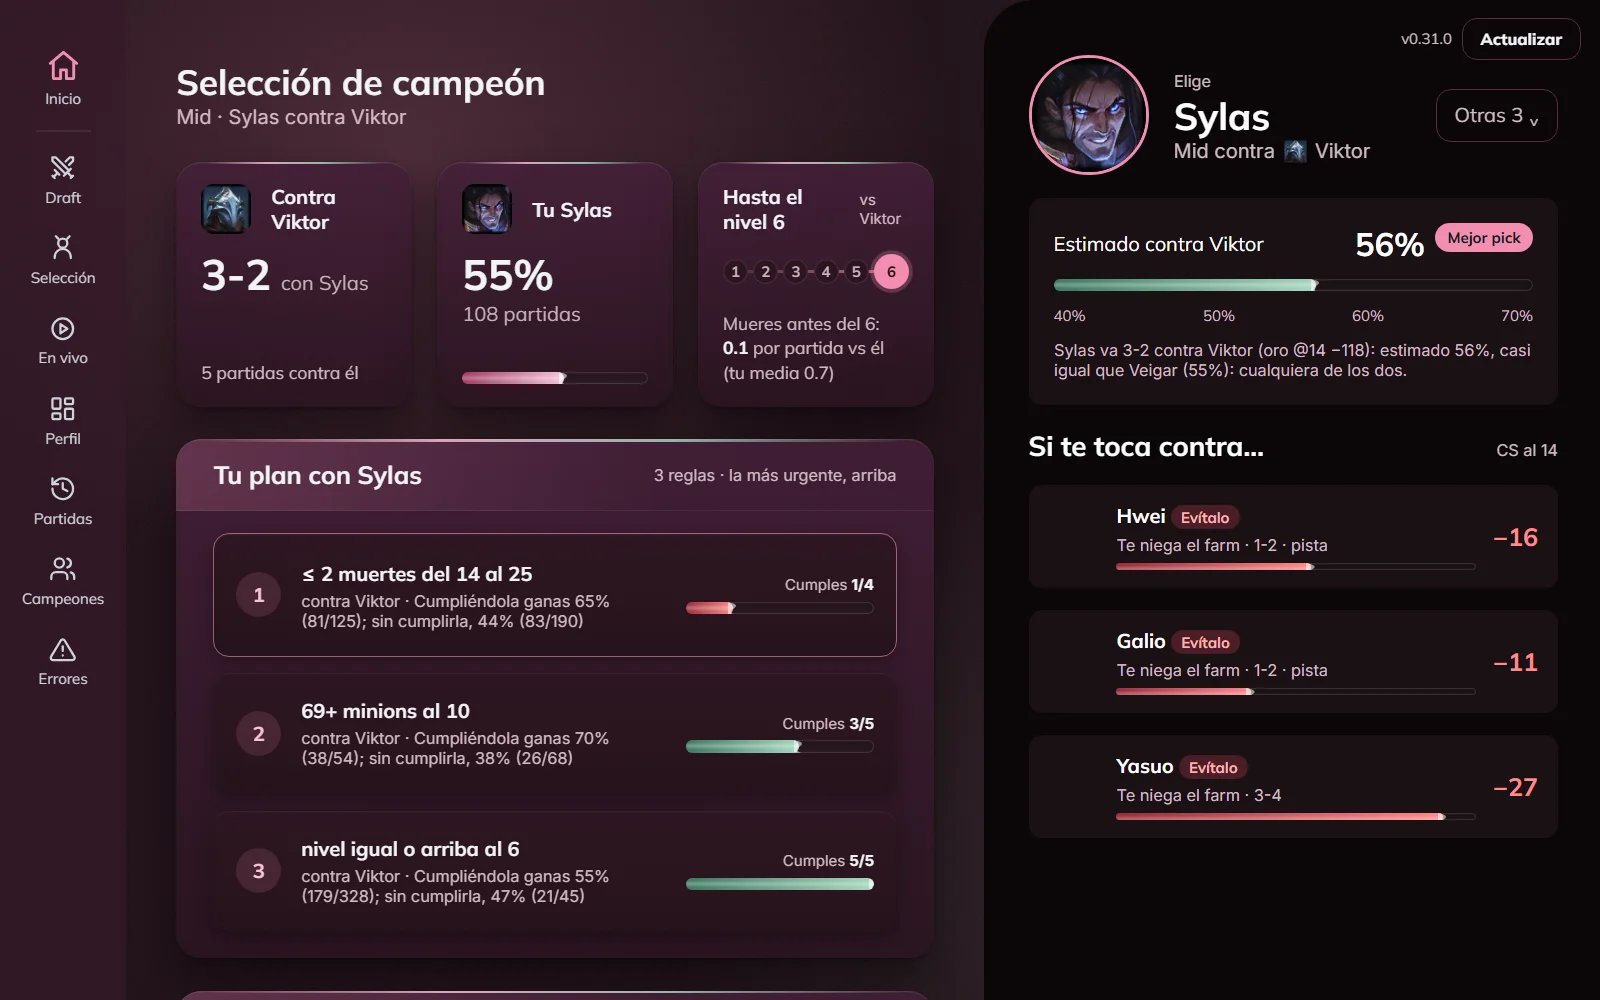
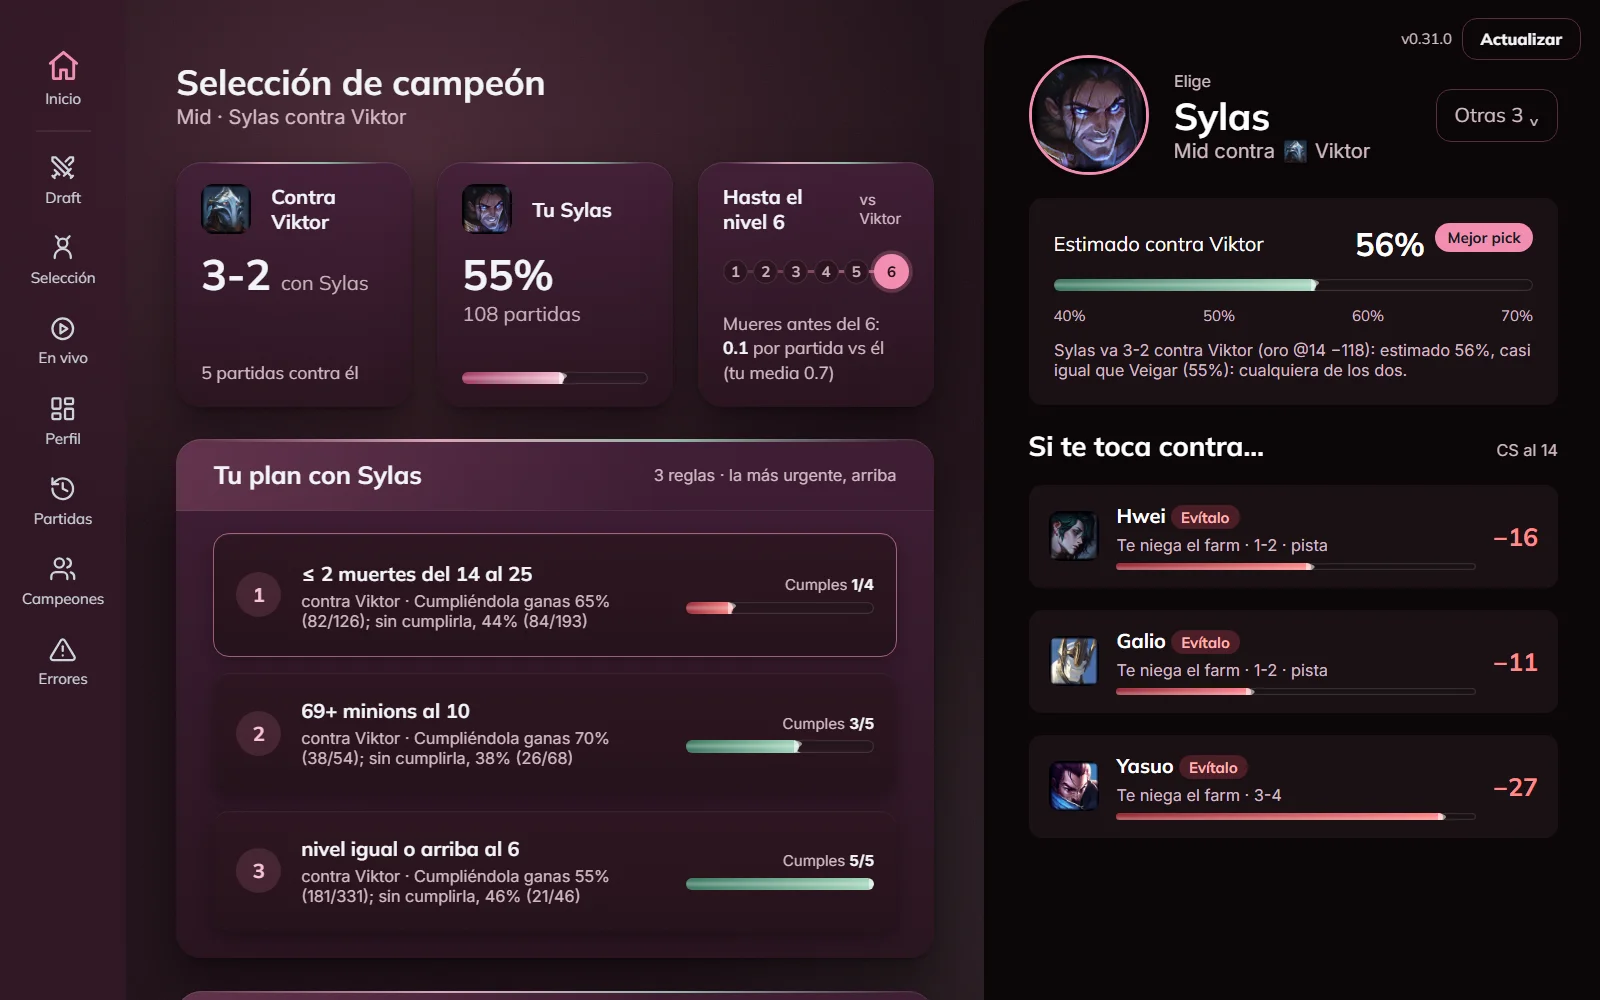
Imágenes reales en README y web; el nivel en partida no se parte
- champ-select.webp recapturada (antes salió sin los íconos de los
  counters: la captura llegó antes que Data Dragon).
- en-vivo.webp nueva y real: una foto de partida_completa.jsonl al
  minuto 17 (Kai'Sa vs Yunara) pasada por paso_vivo y plan_partida;
  reemplaza la maqueta en-vivo.png del diseño Vino en docs/index.html.
- hero.png y pasos.png se arman desde herramientas/composicion/*.html
  con las capturas reales (armar.py, Edge sin ventana). pasos.png decía
  «HTC aparece sola»: ahora dice Racha.
- index.html: en la tarjeta de nivel, «10 · 10» con nowrap y el aviso
  alineado a la derecha (a 1280 px se partía en dos líneas).

diff --git a/scripts/web/index.html b/scripts/web/index.html
@@ -349,8 +349,8 @@ function franja(m, fin) {  // EnPartida_Vino: nivel con anillos (tú y tu rival)
   const nv = `<div class="card stat"><div style="display:flex;align-items:center;justify-content:center;gap:10px;margin-bottom:8px">${xpAro(m.campeon, m.nivel)}
       ${m.rival ? `<span style="display:flex;flex-direction:column;align-items:center;color:${dn < 0 ? "var(--red)" : "var(--teal)"}"><b style="font-size:20px">→</b><b style="font-size:13px">${dn == null ? "" : signo(dn)}</b></span>${xpAro(m.rival, m.nivel_rival, true)}` : ""}</div>
     <b class="tit" style="font-size:15px">${ic("nivel", 16)} Nivel${m.rival ? " vs " + esc(m.rival) : ""}</b>
-    <div style="display:flex;align-items:baseline;justify-content:space-between;gap:8px"><b style="font-size:26px">${m.nivel ?? "?"}${m.rival ? " · " + (m.nivel_rival ?? "?") : ""}</b>
-      ${dn != null ? `<span style="font-size:13px;font-weight:700;color:${dn < 0 ? "var(--red)" : "var(--teal)"}">${dn < 0 ? "▼ No pelees" : "▲ Puedes tradear"}</span>` : ""}</div></div>`;
+    <div style="display:flex;align-items:baseline;justify-content:space-between;gap:8px"><b style="font-size:26px;white-space:nowrap">${m.nivel ?? "?"}${m.rival ? " · " + (m.nivel_rival ?? "?") : ""}</b>
+      ${dn != null ? `<span style="font-size:13px;font-weight:700;text-align:right;color:${dn < 0 ? "var(--red)" : "var(--teal)"}">${dn < 0 ? "▼ No pelees" : "▲ Puedes tradear"}</span>` : ""}</div></div>`;
   const cs = `<div class="card stat"><div style="position:relative;width:96px;height:96px;margin:0 auto 8px">
       <svg width="96" height="96" viewBox="0 0 96 96" style="position:absolute;inset:0;transform:rotate(-90deg)"><circle cx="48" cy="48" r="42" fill="none" stroke="rgba(255,255,255,.08)" stroke-width="5"/>
         <circle class="arco" cx="48" cy="48" r="42" fill="none" stroke="#A8D8C0" stroke-width="5" stroke-linecap="round" style="--c:264;stroke-dasharray:264;stroke-dashoffset:${264 * (1 - Math.min(1, csF))}"/></svg>

diff --git a/herramientas/composicion/hero.html b/herramientas/composicion/hero.html
@@ -1,0 +1,22 @@
+<!doctype html><meta charset="utf-8"><title>hero</title>
+<!-- Portada del README y de docs/index.html (hero.png, 1600×800). Se arma con las capturas reales: herramientas/composicion/armar.py -->
+<style>
+@font-face{font-family:Mulish;src:url(../../scripts/web/fonts/mulish.woff2)}
+@font-face{font-family:Inter;src:url(../../scripts/web/fonts/inter.woff2)}
+:root{--vino:#24111A;--rosa:#F28DB0;--txt:#F7EEF2;--suave:#C9A9B8}
+html,body{margin:0;width:1600px;height:800px;overflow:hidden;background:radial-gradient(1200px 700px at 15% 0%,#4A2338,transparent 60%),radial-gradient(900px 600px at 90% 100%,#3A1A2C,transparent 60%),var(--vino)}
+.txt{position:absolute;left:96px;top:150px;width:640px;font-family:Mulish,"Segoe UI",sans-serif;color:var(--txt)}
+.logo{width:96px;height:96px;border-radius:24px;box-shadow:0 10px 40px rgba(0,0,0,.45)}
+.marca{margin-top:28px;font-weight:800;letter-spacing:.22em;color:var(--rosa);font-size:18px}
+h1{margin:12px 0 0;font-size:84px;line-height:1.02;font-weight:900;letter-spacing:-.02em}
+h1 em{font-style:normal;color:var(--rosa)}
+p{margin:26px 0 0;font-family:Inter,"Segoe UI",sans-serif;font-size:26px;line-height:1.45;color:var(--suave);max-width:560px}
+.cap{position:absolute;border-radius:22px;box-shadow:0 30px 80px rgba(0,0,0,.6),0 0 0 1px rgba(255,255,255,.08)}
+.a{width:860px;left:820px;top:70px}
+.b{width:760px;left:760px;top:380px}
+</style>
+<div class="txt"><img class="logo" src="../../scripts/web/icono.png" alt=""><div class="marca">RACHA.GG</div>
+<h1>Deja de adivinar por qué <em>pierdes.</em></h1>
+<p>Tu coach de League of Legends, hecho con tus propias partidas. Se abre solo cuando juegas.</p></div>
+<img class="cap a" src="../../docs/img/readme/champ-select.webp" alt="">
+<img class="cap b" src="../../docs/img/readme/en-vivo.webp" alt="">

diff --git a/herramientas/composicion/pasos.html b/herramientas/composicion/pasos.html
@@ -1,0 +1,17 @@
+<!doctype html><meta charset="utf-8"><title>pasos</title>
+<!-- Los 3 pasos del README (pasos.png, 1600×460). Se arma con herramientas/composicion/armar.py -->
+<style>
+@font-face{font-family:Mulish;src:url(../../scripts/web/fonts/mulish.woff2)}
+:root{--vino:#24111A;--rosa:#F28DB0;--txt:#F7EEF2;--suave:#C9A9B8}
+html,body{margin:0;width:1600px;height:460px;overflow:hidden;background:radial-gradient(900px 400px at 10% 100%,#4A2338,transparent 60%),radial-gradient(900px 400px at 80% 0%,#3E1D30,transparent 60%),var(--vino);font-family:Mulish,"Segoe UI",sans-serif;color:var(--txt)}
+.fila{position:absolute;inset:70px 104px;display:grid;grid-template-columns:repeat(3,1fr);gap:36px}
+.paso{border-radius:24px;background:linear-gradient(160deg,rgba(255,255,255,.07),rgba(255,255,255,.02));box-shadow:0 0 0 1px rgba(255,255,255,.08),0 20px 50px rgba(0,0,0,.35);padding:40px}
+.n{width:64px;height:64px;border-radius:50%;background:var(--rosa);color:#24111A;display:grid;place-items:center;font-weight:900;font-size:30px}
+h2{margin:30px 0 0;font-size:36px;font-weight:900}
+p{margin:12px 0 0;font-size:22px;line-height:1.45;color:var(--suave)}
+</style>
+<div class="fila">
+<div class="paso"><div class="n">1</div><h2>Descarga</h2><p>Un instalador, sin permisos de administrador.</p></div>
+<div class="paso"><div class="n">2</div><h2>Abre LoL</h2><p>Racha aparece sola. No hay nada que configurar.</p></div>
+<div class="paso"><div class="n">3</div><h2>Juega</h2><p>Champ select, partida y después: Racha te acompaña.</p></div>
+</div>

diff --git a/docs/index.html b/docs/index.html
@@ -83,7 +83,7 @@
     </div>
     <div class="captura">
       <figure>
-        <img src="img/readme/en-vivo.png" alt="En partida: nivel y minions contra tu rival, muertes, reglas en vivo, build, rival y objetivos.">
+        <img src="img/readme/en-vivo.webp" alt="En partida: nivel y CS contra tu rival, muertes desde el 14, tu regla de hoy, tu build, tu rival y los objetivos.">
         <figcaption>Tu nivel y tus minions contra los de tu rival, sus ítems y cuánto falta para dragón y barón, sin salir del juego.</figcaption>
       </figure>
     </div>

diff --git a/herramientas/composicion/armar.py b/herramientas/composicion/armar.py
@@ -1,0 +1,14 @@
+"""Solo desarrollo: arma docs/img/readme/hero.png y pasos.png desde las páginas de esta carpeta con Edge sin ventana.
+Usa las capturas reales de docs/img/readme/*.webp: recapturarlas primero si cambió la app.
+  python herramientas/composicion/armar.py"""
+import pathlib, subprocess, sys, tempfile
+AQUI = pathlib.Path(__file__).resolve().parent
+sys.path.insert(0, str(AQUI.parent.parent / "scripts"))
+import ventana  # noqa: E402
+SALIDA = AQUI.parent.parent / "docs" / "img" / "readme"
+for nombre, (w, h) in {"hero": (1600, 800), "pasos": (1600, 460)}.items():
+    with tempfile.TemporaryDirectory() as perfil:
+        subprocess.run([ventana.edge(), "--headless=new", "--disable-gpu", "--hide-scrollbars", "--allow-file-access-from-files", f"--user-data-dir={perfil}",
+                        f"--window-size={w},{h}", "--virtual-time-budget=4000", f"--screenshot={SALIDA / (nombre + '.png')}", (AQUI / f"{nombre}.html").as_uri()],
+                       capture_output=True, timeout=120)
+    print(nombre, (SALIDA / f"{nombre}.png").stat().st_size // 1024, "KB")

diff --git a/CHANGELOG.md b/CHANGELOG.md
@@ -3,6 +3,7 @@
 Una línea por versión, en palabras de jugador. Lo más nuevo arriba.
 
 ## Sin publicar
+- En partida, el nivel «10 · 10» ya no se parte en dos líneas cuando aparece «Puedes tradear».
 - Un timeline dañado ya no tumba la selección de campeón ni la revisión post-partida, y «Tu última partida» se salta un archivo roto en vez de quedar vacía.
 - Racha es mucho más rápida: la selección de campeón carga en 0.15 s (antes 4 s), tu perfil se arma en medio segundo (antes 7 s) y la revisión post-partida sale en 0.4 s (antes 5 s). Cada partida se procesa una sola vez.
 - Un archivo de partida dañado ya no rompe la selección de campeón ni las builds: se salta.
